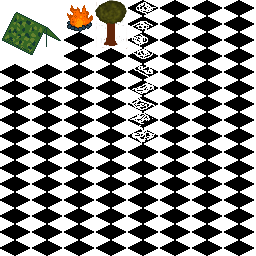
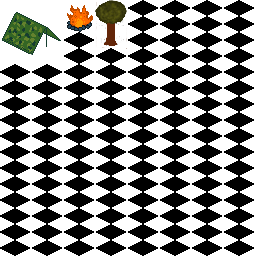
mines and a GoldMine!
in 3 sizes.
and other small changes

Changed region(s): [[0.5, 0.0, 0.5938, 0.5625]]

diff --git a/src/walnoot/rtsgame/map/structures/MineStructure.java b/src/walnoot/rtsgame/map/structures/MineStructure.java
@@ -8,62 +8,49 @@ import walnoot.rtsgame.Images;
 import walnoot.rtsgame.map.Map;
 import walnoot.rtsgame.map.tiles.Tile;
 
-public abstract class MineStructure extends BasicStructure {
-	int sizeX, sizeY;
+public abstract class MineStructure extends Structure {
+	int size;
 	BufferedImage image;
-	BufferedImage[] images;
 	
 	
-	public MineStructure(Map map, int xPos, int yPos, int ID, int sizeX, int sizeY) {
-		super(map, xPos, yPos, 3, 0, ID);
-		this.sizeX = sizeX;
-		this.sizeY = sizeY;
-		image = Images.mines[ID - 300];
-		
-		images = new BufferedImage[image.getHeight()/Tile.HEIGHT];
-		for(int i = 0; i < images.length; i++){
-			images[i] = image.getSubimage(0, i * Tile.HEIGHT, image.getWidth(), Tile.HEIGHT);
+	public MineStructure(Map map, int xPos, int yPos, int ID, int size) {
+		super(map, xPos, yPos, ID);
+		if(size < 1) size = 1;
+		if(size > 3) size = 3;
+		this.size = size;
+		int textureX = (ID - 300) * 4;
+		int textureY;
+		if(size == 1){
+			textureY = 0;
+		}else if(size == 2){
+			textureY = 1;
+		}else{
+			textureY = 4;
 		}
-		System.out.println(sizeX + "  " + sizeY);
+		loadImage(textureX, textureY);
+		health = getMaxHealth();
 		
 	}
 	
 	public void render(Graphics g){
-		sizeX = 4;
-		sizeY = 5;
+		int x = getScreenX() - (Tile.WIDTH / 2) * (getSize() - 1);
+		int y = getScreenY();
+		if(size == 2) y -= Tile.HEIGHT / 2;
+		g.drawImage(image, x, y, null);
+	}
+	
+	private void loadImage(int textureX, int textureY){
+		int x = textureX * Tile.WIDTH;
+		int y = textureY * Tile.HEIGHT;
 		
+		int width = getSize() * Tile.WIDTH;
+		int height = getSize() * Tile.HEIGHT;
 		
-		g.drawImage(images[0], getScreenX(),getScreenY(), null);
-		if(sizeX > 1 || sizeY > 1){
-			
-			g.drawImage(images[1], getScreenX() + (Tile.WIDTH/2) * (sizeX -1), getScreenY() - (Tile.HEIGHT / 2) * (sizeY - 2) ,null);
-			g.drawImage(images[2], getScreenX() + Tile.WIDTH * (sizeX), getScreenY() - ( sizeX - sizeY) * (Tile.HEIGHT / 2), null);
-			g.drawImage(images[3], getScreenX() + (Tile.WIDTH/2) * (sizeX), getScreenY() + (Tile.HEIGHT / 2) * (sizeY - 1), null);
-			
-			int xPos = getScreenX(), yPos = getScreenY();
-			xPos += Tile.WIDTH;
-			/*for(int x = 1; x < sizeY - 1; x++){
-				for(int y = 1; y < sizeX - 1; y++){
-					g.drawImage(images[8],xPos , yPos,null);
-					xPos +=(Tile.WIDTH / 2);
-					yPos -=(Tile.HEIGHT / 2);
-				}
-				xPos = getScreenX() + Tile.WIDTH + (x) * (Tile.WIDTH / 2);
-				yPos = getScreenY() + (x) * (Tile.HEIGHT / 2);
-			}*/
-			
-			for(int i = 1; i < sizeX - 1; i++){
-				g.drawImage(images[5], getScreenX() + (Tile.WIDTH / 2) * i ,getScreenY() - (Tile.HEIGHT / 2) * i , null);
-				g.drawImage(images[7], getScreenX() + (sizeX * Tile.WIDTH) - (Tile.WIDTH / 2) * i - (Tile.WIDTH), getScreenY() + (i * (Tile.HEIGHT / 2)), null);
-			}
-			
-			for(int i = 1; i < sizeY - 1; i++){
-				g.drawImage(images[4],getScreenX() + (Tile.WIDTH / 2) * i ,getScreenY() + (Tile.HEIGHT / 2) * i,null);
-			}
-			
-		}
+		image = Images.mines.getSubimage(x, y, width, height);
 		
-		
-		
+	}
+
+	public int getSize() {
+		return size;
 	}
 }

diff --git a/src/walnoot/rtsgame/map/structures/GoldMine.java b/src/walnoot/rtsgame/map/structures/GoldMine.java
@@ -2,34 +2,59 @@ package walnoot.rtsgame.map.structures;
 
 import java.awt.Graphics;
 
+import walnoot.rtsgame.InputHandler;
 import walnoot.rtsgame.map.Map;
+import walnoot.rtsgame.map.entities.Entity;
+import walnoot.rtsgame.screen.GameScreen;
 
 public class GoldMine extends MineStructure {
-	public static int ID = 300;
+	public static int ID = 300, HEALTH_SMALL = 100, HEALTH_MEDIUM = 200, HEALTH_LARGE = 300;
 	
-	public GoldMine(Map map, int xPos, int yPos, int sizeX, int sizeY) {
-		super(map, xPos, yPos, ID, sizeX, sizeY);
-	}
-
-	protected int getHeadSpace() {
-		return 1;
-	}
-
-	public int getSize() {
-		return 1;
+	public GoldMine(Map map, int xPos, int yPos, int size) {
+		super(map, xPos, yPos, ID, size);
 	}
 	
-
-	public void update() {
+	public boolean onRightClick(Entity entityClicked, GameScreen screen, InputHandler input){
+		System.out.println("test");
 		
+		return false;
+	}
+	
+	public void update() {
+		if(getHealth()  <=  100){
+			size = 1;
+		}else if(getHealth() <= 200){
+			size = 2;
+		}else{
+			size = 3;
+		}
 	}
 
 	public int getMaxHealth() {
-		return 0;
+		switch(size){
+		case 1:
+			return HEALTH_SMALL;
+		case 2:
+			return HEALTH_MEDIUM;
+		case 3:
+			return HEALTH_LARGE;
+		default:
+			return 0;
+		}
 	}
 
 	public String getName() {
-		return "GoldMine";
+		switch(size){
+		case 1:
+			return "Goldmine small";
+		case 2:
+			return "Goldmine medium";
+		case 3:
+			return "Goldmine large";
+		default:
+			return "unknown??";
+		}
+		
 	}
 
 }

diff --git a/src/walnoot/rtsgame/Images.java b/src/walnoot/rtsgame/Images.java
@@ -6,13 +6,13 @@ import java.io.IOException;
 import javax.imageio.ImageIO;
 
 public class Images {
-	public static BufferedImage[][] terrain = split(load("/res/terrain3.png"), 16, 16);
+	public static BufferedImage[][] terrain = split(load("/res/terrain2.png"), 16, 16);
 	public static BufferedImage[][] gui = split(load("/res/gui.png"), 3, 3);
 	public static BufferedImage structures = load("/res/structures.png");
 	public static BufferedImage font = load("/res/font.png");
 	public static BufferedImage[][] sheep = split(load("/res/animations/sheep.png"),7,1);
 	public static BufferedImage[][] buttons = split(load("/res/menubar.png"),4,4);
-	public static BufferedImage[] mines = split(load("/res/mines.png"), 4);
+	public static BufferedImage mines = load("/res/mines.png");
 	
 	public static BufferedImage load(String fileName){
 		try{

diff --git a/src/walnoot/rtsgame/map/Map.java b/src/walnoot/rtsgame/map/Map.java
@@ -282,11 +282,22 @@ public class Map {
 	}
 	
 	public void addEntity(Entity u){
-		if(getEntity(u.xPos, u.yPos)== null){
-			if(getTile(u.getxPos(), u.getyPos()) == null) return;
-			if(!getTile(u.getxPos(), u.getyPos()).isSolid()){
-				entities.add(u);
+		if(! (u instanceof Structure)){
+			if(getEntity(u.xPos, u.yPos)== null){
+				if(getTile(u.getxPos(), u.getyPos()) == null) return;
+				if(!getTile(u.getxPos(), u.getyPos()).isSolid()){
+					entities.add(u);
+				}
 			}
+		}else{
+			Structure structure = (Structure) u;
+			for(int x = 0; x < structure.getSize(); x++){
+				for(int y = 0; y < structure.getSize(); y++){
+					if(getTile(u.xPos +x, u.yPos + y).isSolid()) return;
+				}
+			}
+			entities.add(u);
+			
 		}
 	}
 	

diff --git a/src/walnoot/rtsgame/screen/GameScreen.java b/src/walnoot/rtsgame/screen/GameScreen.java
@@ -66,8 +66,9 @@ public class GameScreen extends Screen {
 		map.addEntity(new TentStructure(map, 4, goodYPos + 3)); //voor de test, later weghalen
 		map.addEntity(new CampFireStructure(map, 4, goodYPos + 5)); //voor de test, later weghalen
 		map.addEntity(new TreeStructure(map, 4, goodYPos + 7)); //voor de test, later weghalen
-		map.addEntity(new GoldMine(map, 20, goodYPos + 20, 4,5)); // etc...
-		
+		map.addEntity(new GoldMine(map, 20, goodYPos + 20, 3)); // etc...
+		map.addEntity(new GoldMine(map, 15, goodYPos + 20, 2)); 
+		map.addEntity(new GoldMine(map, 10, goodYPos + 20, 1)); 
 		
 		translationX = -selectedEntity.getScreenX();
 		translationY = -selectedEntity.getScreenY();

diff --git a/src/walnoot/rtsgame/popups/entitypopup/EntityOptionsPopup.java b/src/walnoot/rtsgame/popups/entitypopup/EntityOptionsPopup.java
@@ -83,7 +83,7 @@ public class EntityOptionsPopup extends EntityPopup {
 	}
 	
 	public boolean isInPopup(int mouseX, int mouseY){
-		if(mouseY > screenY + Images.gui[0][0].getHeight() && mouseY < screenY + height*RTSFont.HEIGHT/ + 2 * Images.gui[0][0].getHeight() && mouseX >= screenX && mouseX < screenX + width + 2* Images.gui[0][0].getWidth()){
+		if(mouseX > screenX && mouseX < screenX + width && mouseY > screenY && mouseY < screenY + height){
 			return true;
 		}
 		return false;

diff --git a/src/walnoot/rtsgame/popups/entitypopup/EntiyTextPopup.java b/src/walnoot/rtsgame/popups/entitypopup/EntiyTextPopup.java
@@ -40,5 +40,6 @@ public class EntiyTextPopup extends EntityPopup {
 
 	public void onLeftClick(int mouseX, int mouseY) {}
 	public boolean isInPopup(int x , int y){
-		return false;}
+		return false;
+	}
 }
